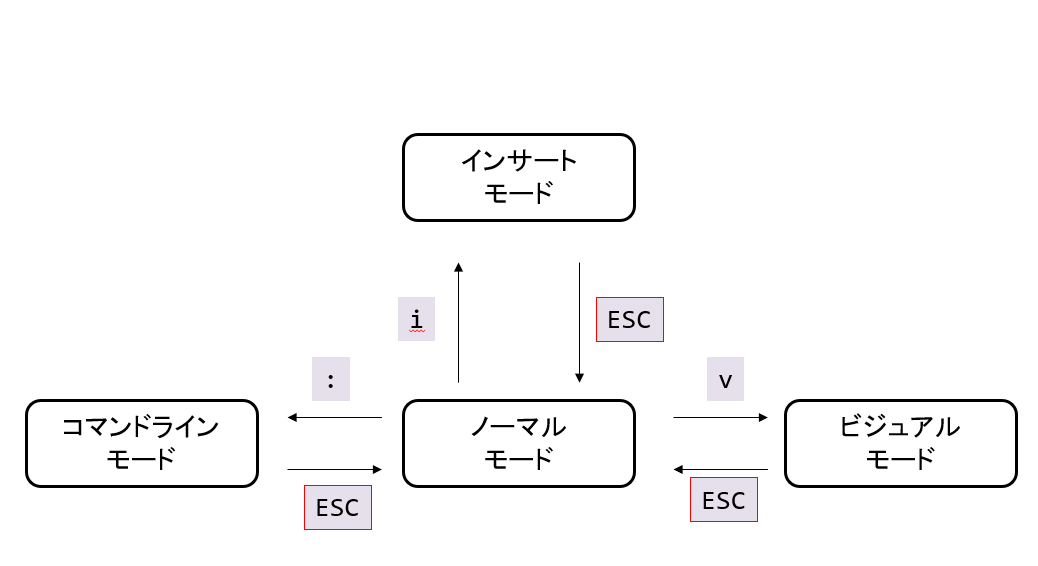
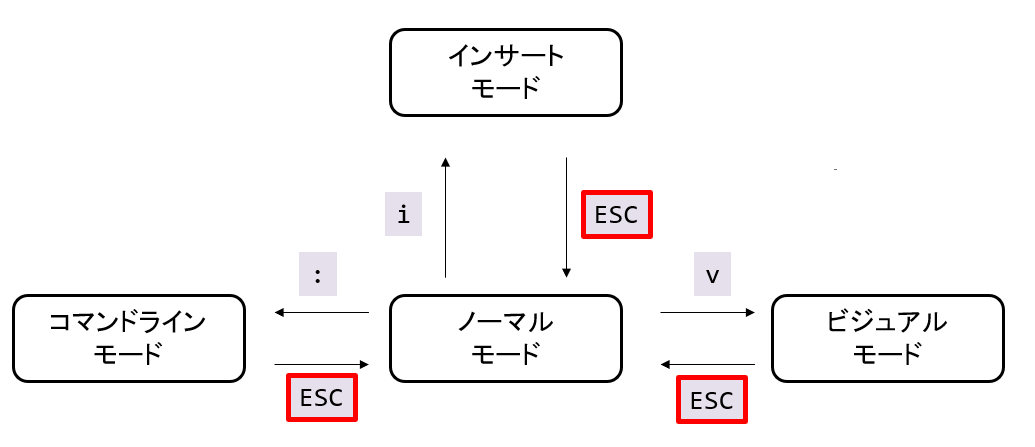
adds fig

Changed region(s): [[0.371, 0.1745, 0.9894, 0.9597], [0.0, 0.5526, 0.6184, 0.9597], [0.371, 0.0582, 0.6184, 0.1454]]

diff --git a/vim/README.md b/vim/README.md
@@ -14,7 +14,9 @@ Vimの使い方を解説したサイトは多数あるが、例えば
 
 Vimの最大の特徴はモードがあることだ。起動直後はノーマルモードとなっており、そのままでは入力ができない。`i`などを押すと入力モードとなり、文字が入力できるようになる。`ESC`を押すとノーマルモードに戻る。
 
-また、`:`を押すことでコマンドラインモードになる。ここでは置換など様々なことができる。`v`などを押すことでビジュアルモードになり、テキストの一部分を選択したり、選択した範囲について操作ができる。
+また、`:`を押すことでコマンドラインモードになる。ここでは置換など様々なことができる。`v`などを押すことでビジュアルモードになり、テキストの一部分を選択したり、選択した範囲について操作ができる。以下にモード間の遷移図を示すが、とりあえず「エスケープキーを押せばノーマルモードに戻る」と覚えておけばよい。
+
+![modes](fig/mode.png)
 
 ## カーソル移動と基本の編集
 
